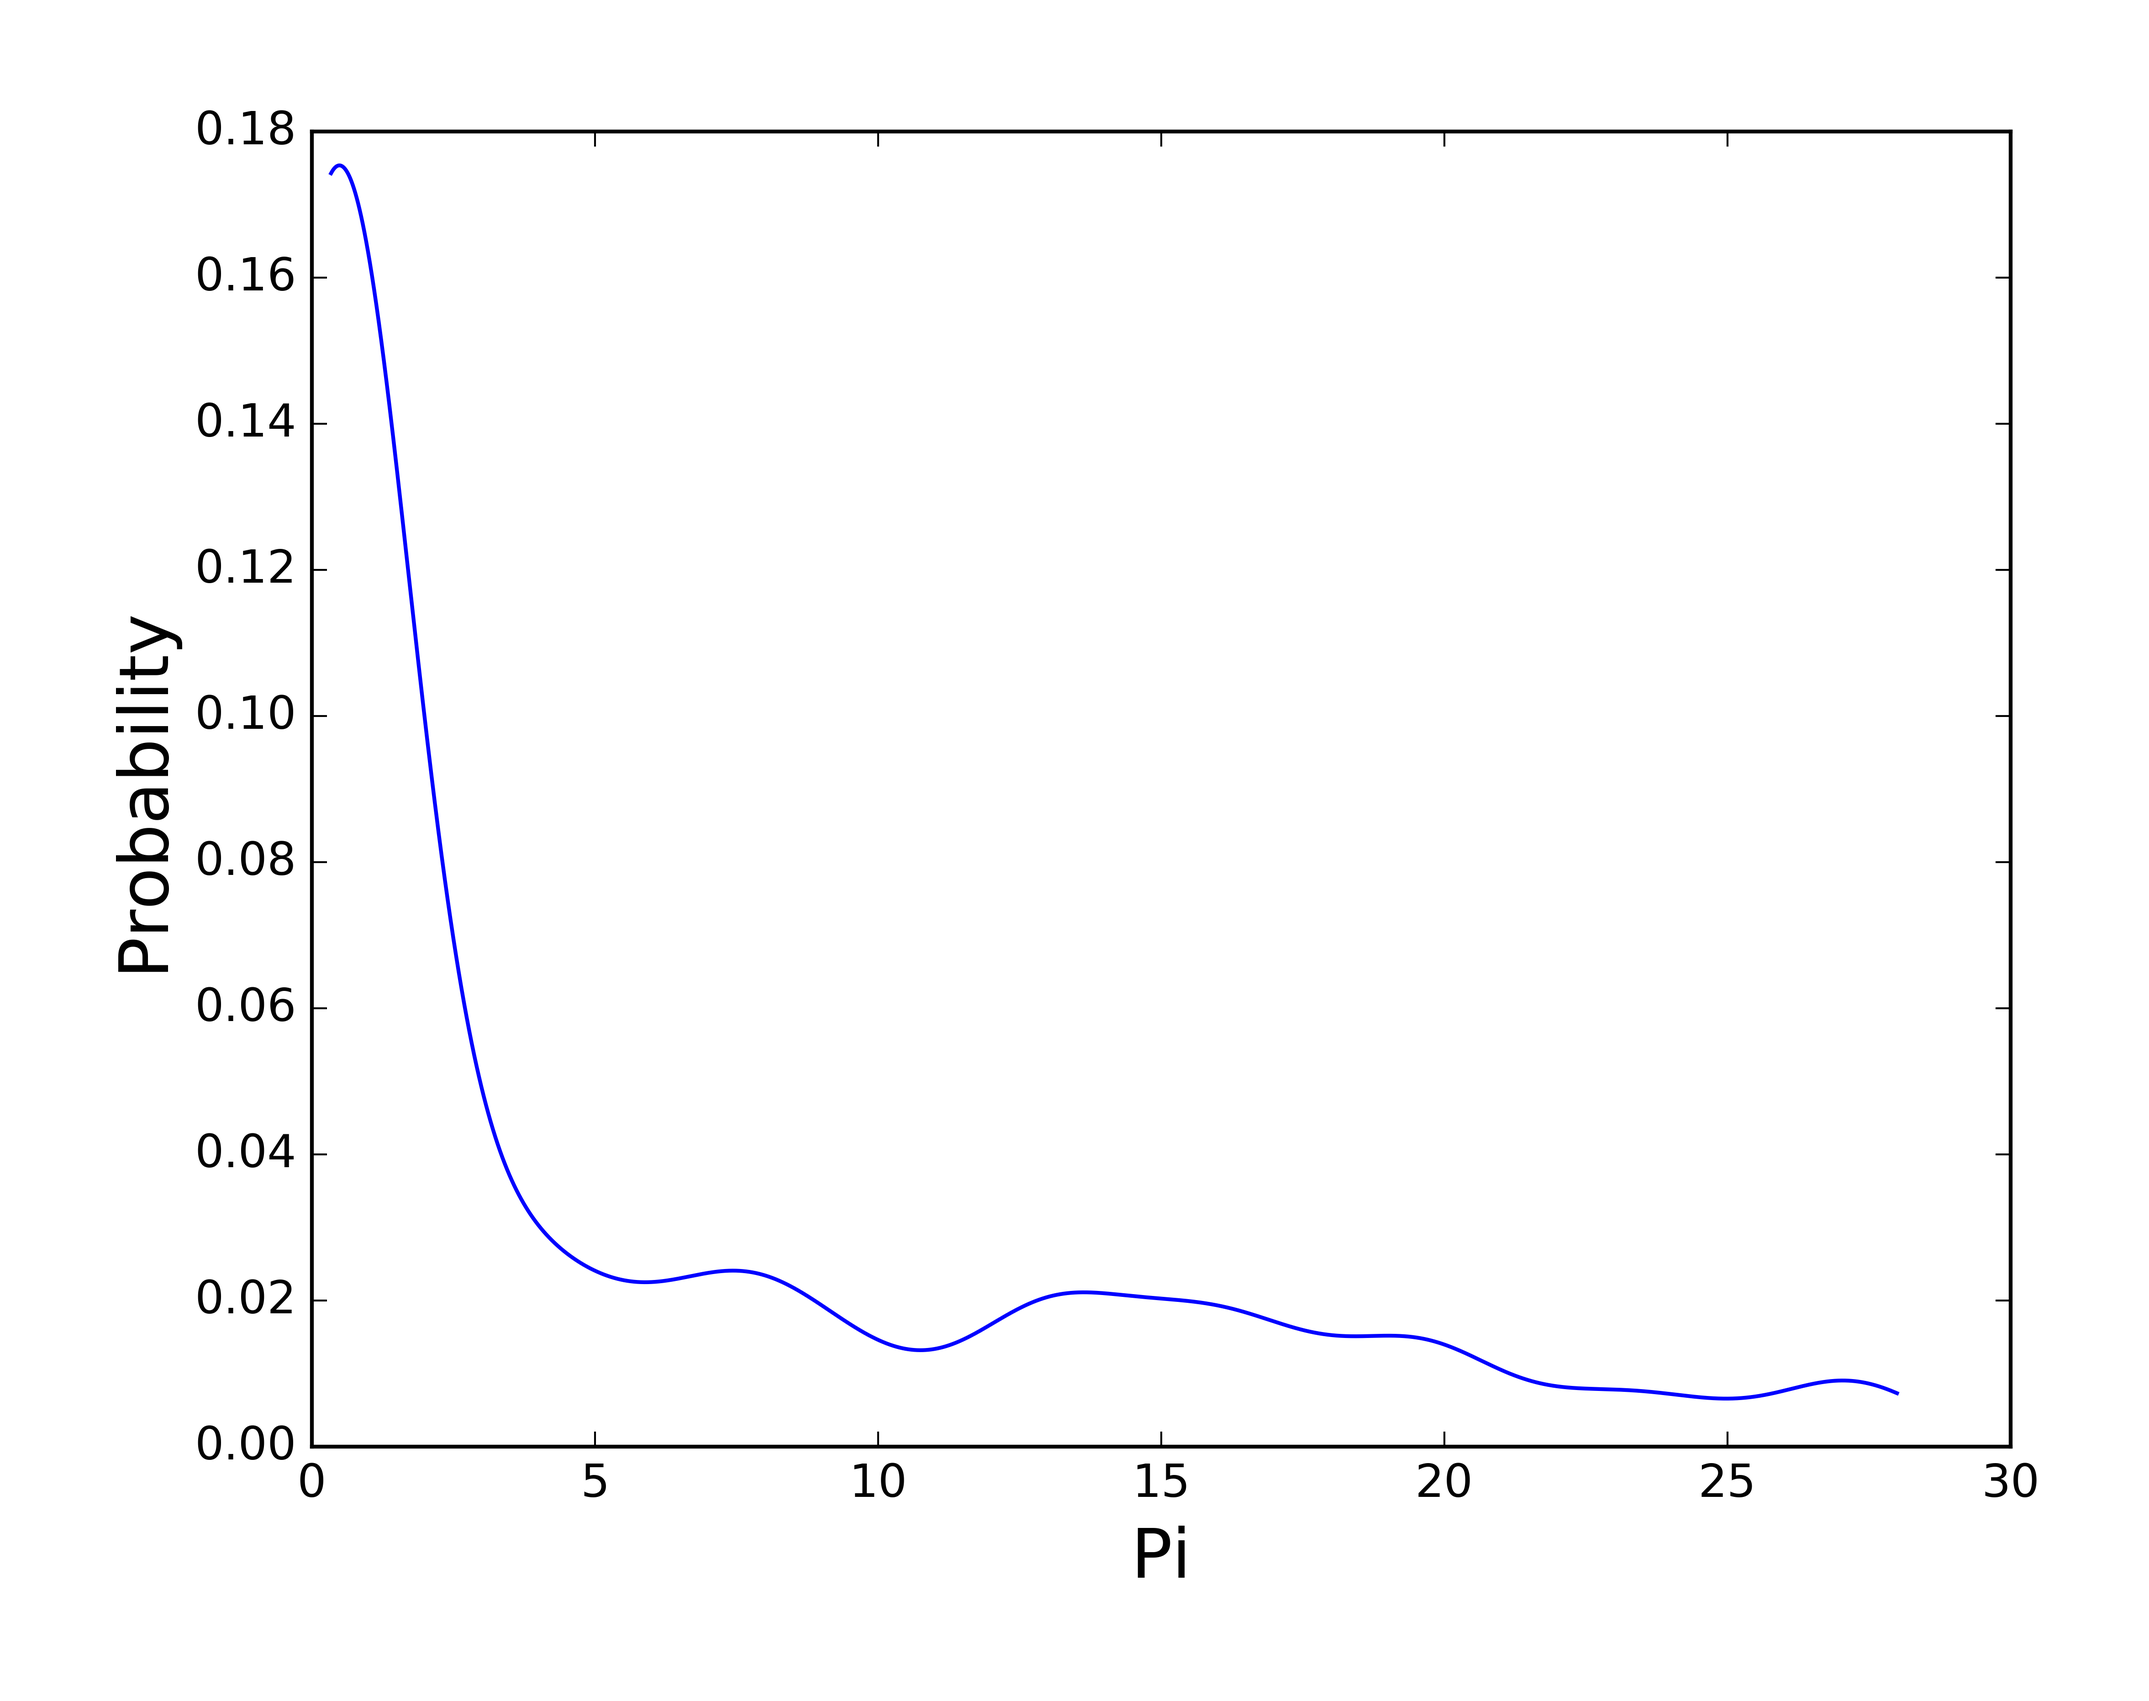
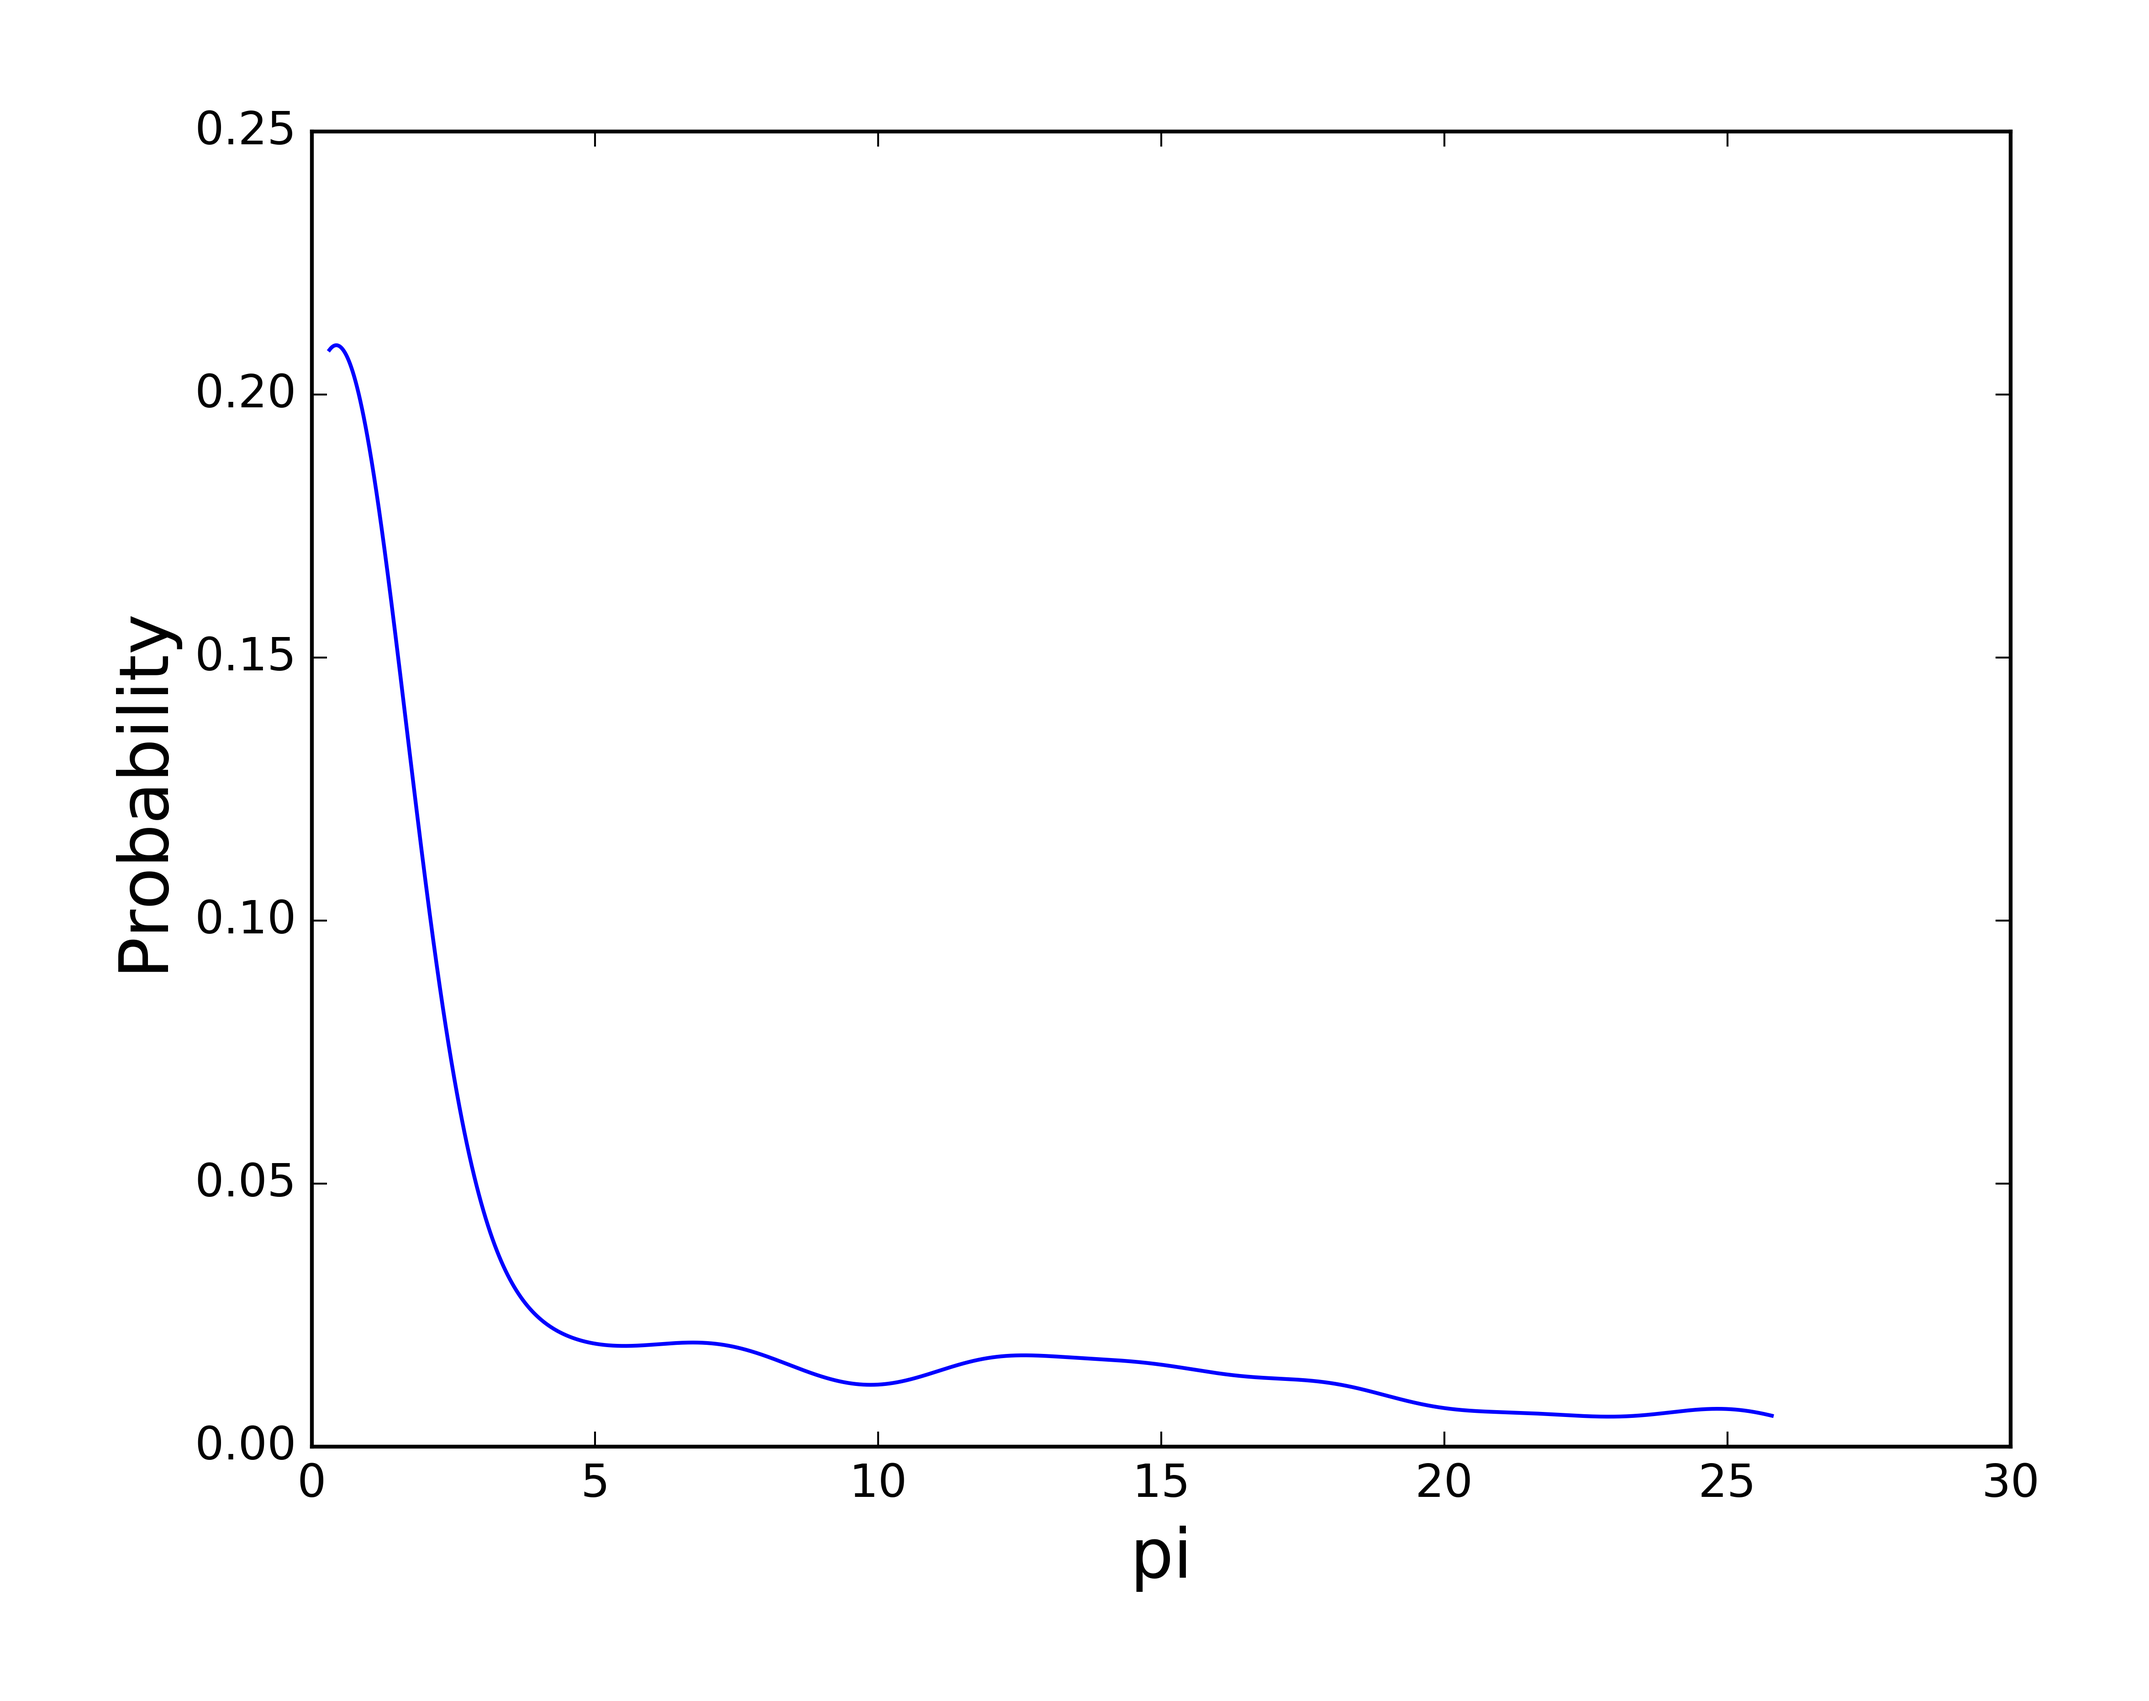
figs

diff --git a/scripts/tajimasD.py b/scripts/tajimasD.py
@@ -243,18 +243,29 @@ def selectDormGenes():
     #print spore_genes_names
     print pd.merge(dataframe, spore_genes_names, on=['Gene'])
 
-selectDormGenes()
+#selectDormGenes()
 
-#print test.ix[test['pi'].idxmin()]
-#pi_np = np.asarray(test[['T_D']])
-#getKDE = CV_KDE(pi_np)
-#fig = plt.figure()
-#ax = fig.add_subplot(1, 1, 1)
 
-#plt.plot(getKDE[0], getKDE[1],color = 'b', linestyle = '-', label="N = 1000, B = 1")
-#n, bins, patches = plt.hist(pi_np, 200, normed=1, facecolor='green', alpha=0.75)
-#plt.xlabel('Tajimas D', fontsize = 18)
-#plt.ylabel('Probability', fontsize = 18)
-#output =  mydir + '/figs/TD.png'
-#plt.savefig(output, bbox_inches = "tight", pad_inches = 0.4, dpi = 600)
-#plt.close()
+def makePlot(param = 'pi'):
+    dataframe = pd.read_csv(mydir + '/data/out/PopGenStats.txt', sep = '\t')
+    param_np = np.asarray(dataframe[[param]])
+    getKDE = CV_KDE(param_np)
+    fig = plt.figure()
+    ax = fig.add_subplot(1, 1, 1)
+    plt.plot(getKDE[0], getKDE[1],color = 'b', linestyle = '-', label="N = 1000, B = 1")
+    if param == 'T_D':
+        plt.xlabel('Tajimas D', fontsize = 18)
+    elif param == 'FL_D':
+        plt.xlabel('Fu and Lis D', fontsize = 18)
+    elif param == 'W_T':
+        plt.xlabel('Wattersons Theta', fontsize = 18)
+    else:
+        plt.xlabel('pi', fontsize = 18)
+    plt.ylabel('Probability', fontsize = 18)
+    output =  mydir + '/figs/' + str(param) + '.png'
+    plt.savefig(output, bbox_inches = "tight", pad_inches = 0.4, dpi = 600)
+    plt.close()
+
+params = ['pi', 'T_D', 'FL_D','W_T']
+for param in params:
+     makePlot(param = param)
